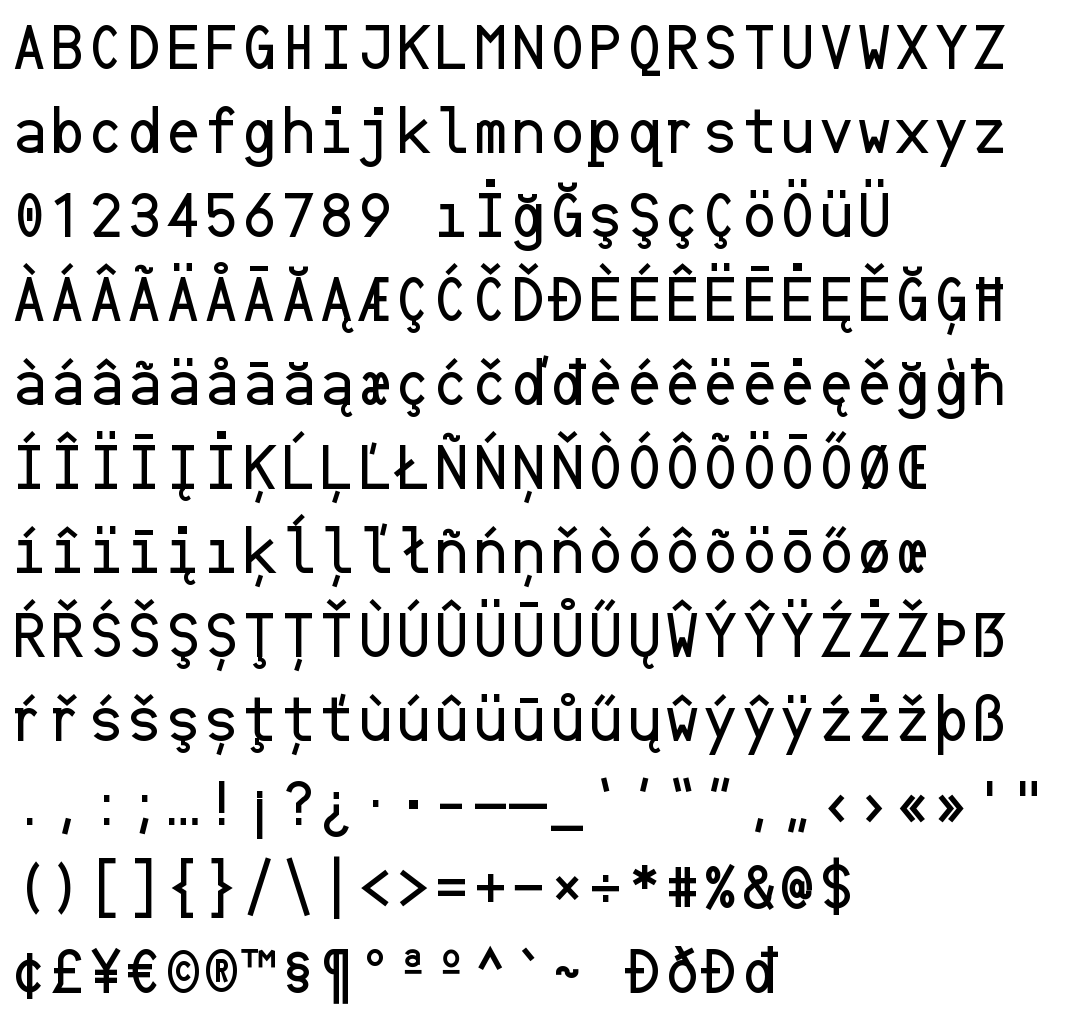
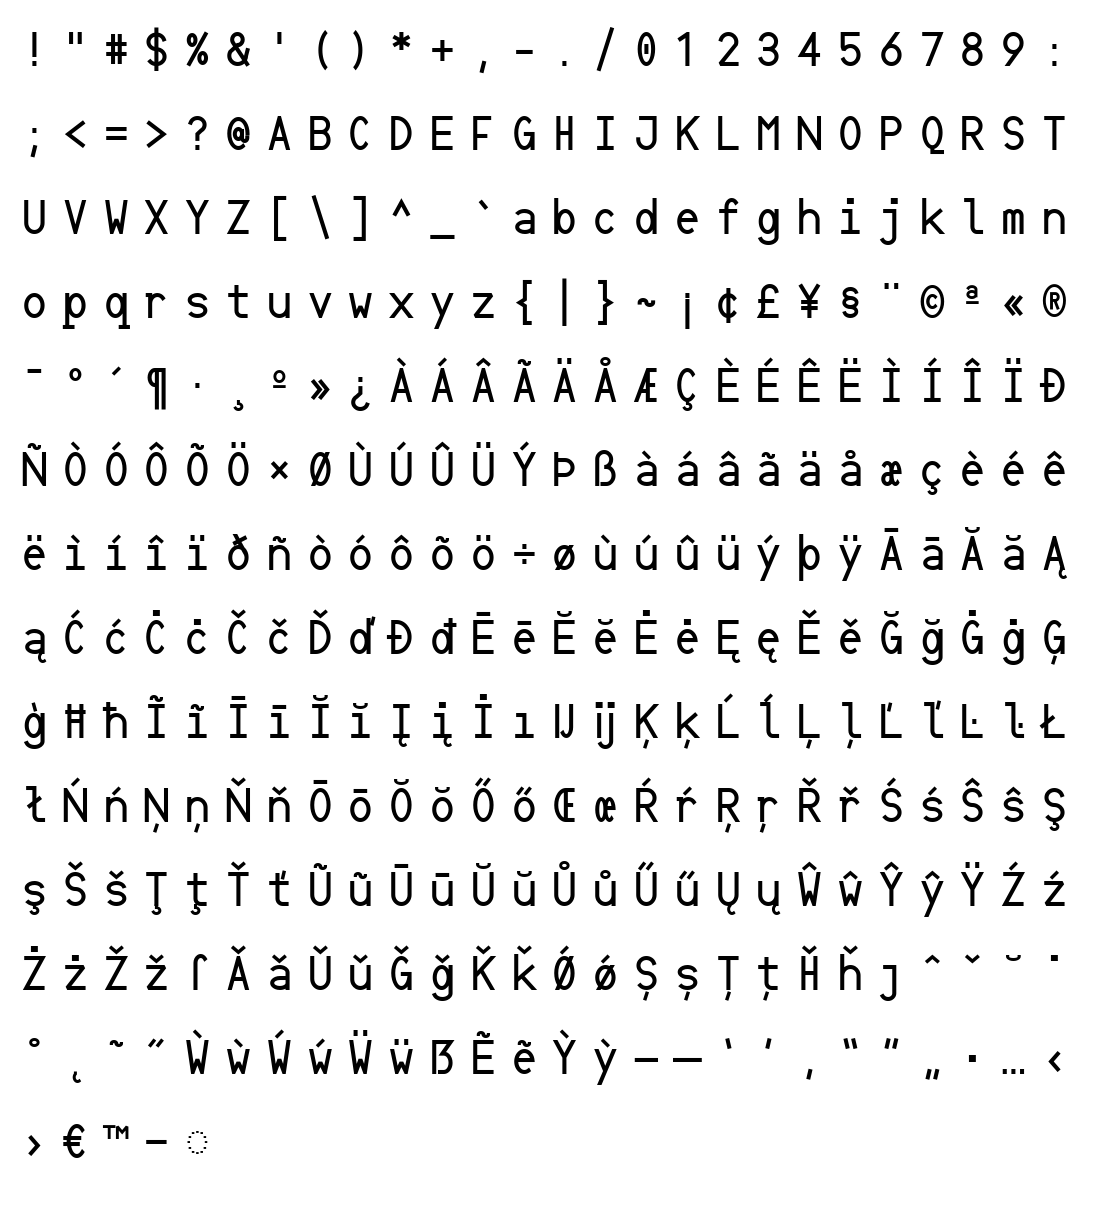
Version 1.000

Changed region(s): [[0.0, 0.0, 0.9778, 0.9961], [0.0, 0.8405, 0.0611, 0.9027], [0.5194, 0.9339, 0.55, 0.965]]

diff --git a/sources/specimen.py b/sources/specimen.py
@@ -1,0 +1,25 @@
+"""Write documentation/specimen_all.png: every encoded character of the font, in code point order."""
+import os
+import sys
+import unicodedata
+
+from fontTools.ttLib import TTFont
+from PIL import Image, ImageDraw, ImageFont
+
+FONT = sys.argv[1] if len(sys.argv) > 1 else "fonts/ttf/AlleleMono-Regular.ttf"
+OUT = sys.argv[2] if len(sys.argv) > 2 else "documentation/specimen_all.png"
+PER_ROW, PX = 26, 48
+
+cps = [cp for cp in sorted(TTFont(FONT).getBestCmap())
+       if unicodedata.category(chr(cp))[0] not in "CZ" and unicodedata.category(chr(cp)) != "Mn"]
+rows = [cps[i:i + PER_ROW] for i in range(0, len(cps), PER_ROW)]
+font = ImageFont.truetype(FONT, PX)
+cell, line = PX * 0.6 + 12, int(PX * 1.75)
+im = Image.new("L", (int(40 + cell * PER_ROW), 40 + line * len(rows)), 255)
+draw = ImageDraw.Draw(im)
+for r, row in enumerate(rows):
+    for c, cp in enumerate(row):
+        draw.text((20 + c * cell, 20 + r * line), chr(cp), font=font, fill=0)
+os.makedirs(os.path.dirname(OUT), exist_ok=True)
+im.save(OUT, optimize=True)
+print(f"{len(cps)} characters -> {OUT}")

diff --git a/sources/build.py b/sources/build.py
@@ -22,7 +22,7 @@ FAMILY = "Allele Mono"
 DESIGNER = "Ozge A. Cavus - AIstanbul Research Group"
 REPO_URL = "https://github.com/aistanbulresearch/allele-mono"
 PSNAME = "AlleleMono-Regular"
-VERSION = "0.100"
+VERSION = "1.000"
 COPYRIGHT = f"Copyright 2026 The Allele Mono Project Authors ({REPO_URL})"
 
 UPM = 1000

diff --git a/README.md b/README.md
@@ -17,7 +17,7 @@ Licensed under the [SIL Open Font License 1.1](OFL.txt).
 
 ## Status
 
-**Draft, version 0.100. Not yet ready for Google Fonts submission.**
+**Version 1.000.**
 
 - Character set: the full Google Fonts minimum set, GF Latin Core (319 characters), plus the
   auxiliary letters of several European orthographies (for example Dutch IJ, Catalan L with
@@ -91,6 +91,7 @@ The repository follows the [Google Fonts project template](https://github.com/go
 make ufo     # regenerate sources/AlleleMono-Regular.ufo after editing sources/build.py
 make build   # compile the UFO with gftools builder into fonts/ttf and fonts/webfonts
 make test    # check the fonts with fontspector (needs: cargo binstall fontspector)
+python3 sources/specimen.py   # redraw documentation/specimen_all.png
 ```
 
 `make` creates a Python virtual environment from `requirements.txt` on first use.
